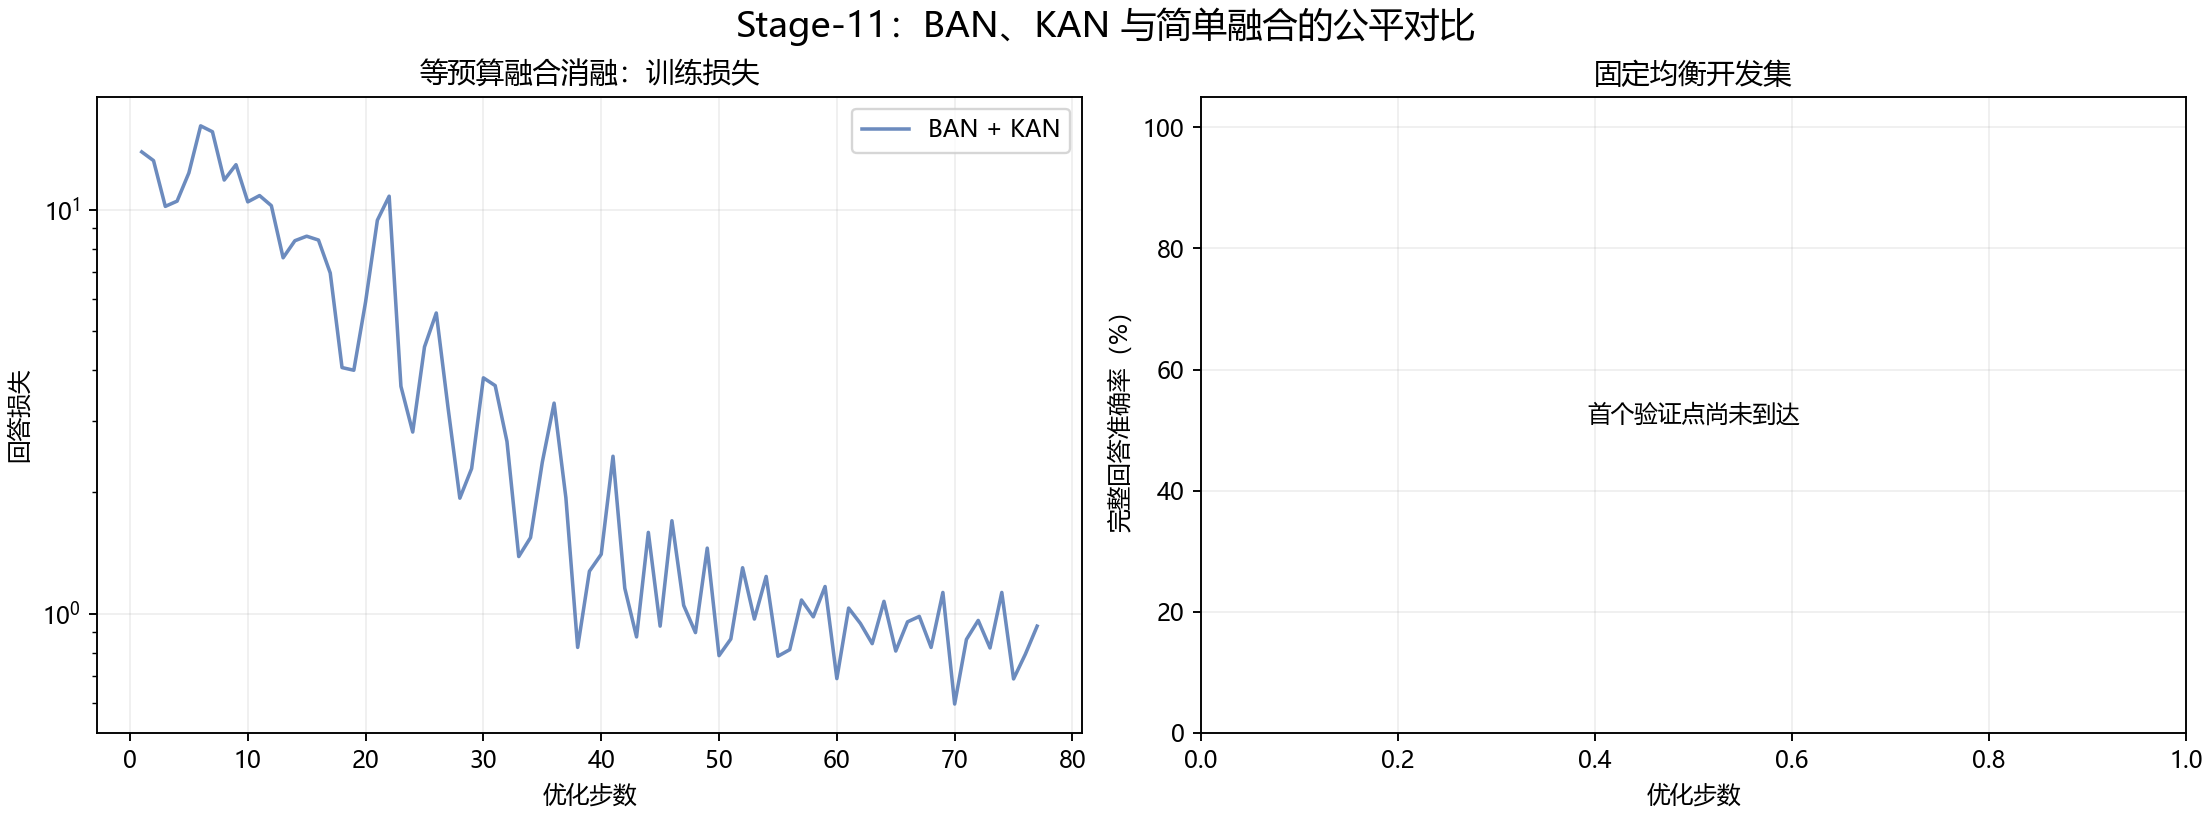
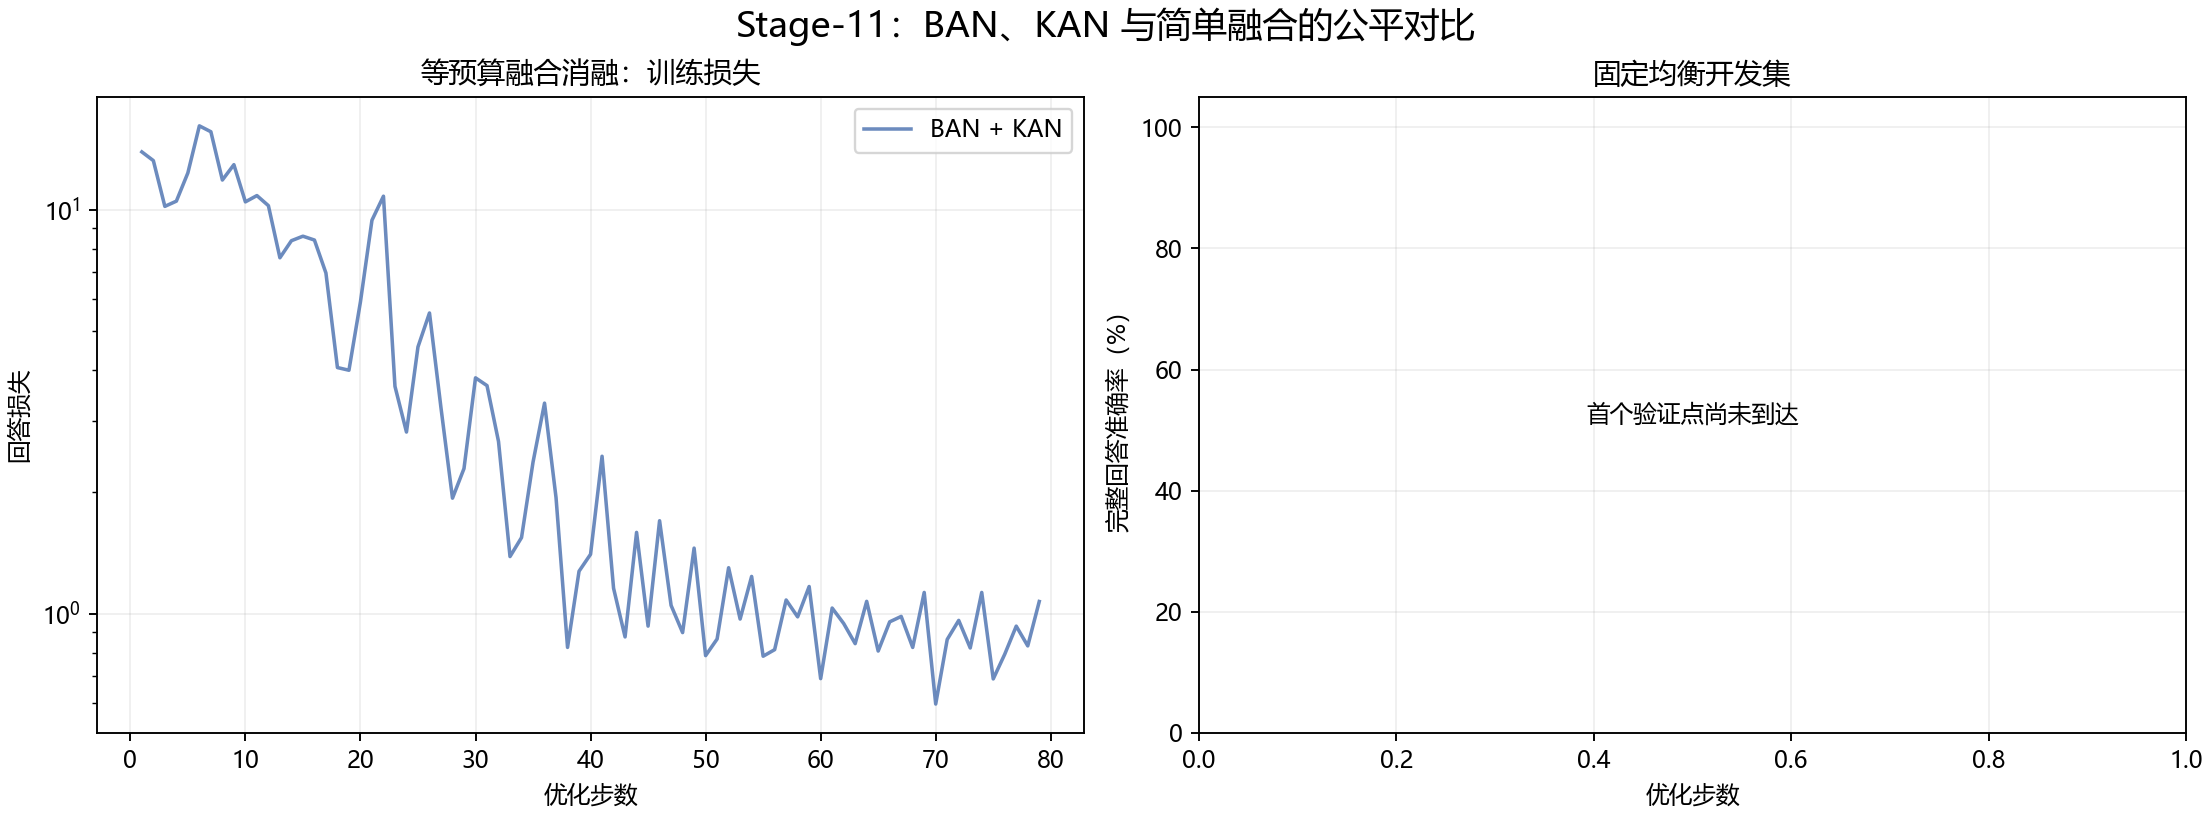
Record verified Stage 11 checkpoint recovery

diff --git a/STAGE10_RESEARCH_LOG.md b/STAGE10_RESEARCH_LOG.md
@@ -111,6 +111,8 @@ GitHub 仓库只提交源码、配置、轻量 JSON/CSV 指标、图表和 Markd
 
 首次BAN+KAN运行到第102步时训练进程与旧接力进程终止，且尚未到第200步验证，也没有可恢复检查点。该运行作为中断诊断归档，不计入正式比较。恢复协议在看到任何正式验证结果之前加入每50步恢复检查点，保存优化器、调度器、随机数状态和可训练权重；优化、验证、选择规则与800步预算均保持不变。`run_stage11_all.ps1`由Windows任务计划托管，防止Codex会话结束带走长训练，并在异常退出后从最近检查点继续三种结构。`snapshot_stage11.ps1`与`report_stage11.py`每四小时生成一次`STAGE11_PROGRESS.md`、JSON快照和进度图；三组全部完成后生成`STAGE11_ABLATION_REPORT.md`。Stage-10最终测试集不会在该消融中读取或用于结构选择。
 
+2026-10-05完成第50步恢复机制的受控测试：检查点含234个可训练张量、AdamW状态、调度器第50轮状态和5,056字节PyTorch RNG状态；终止后从第50步恢复，重新产生的第51–60步损失与原确定性序列一致，累计训练秒数连续。测试同时发现任务计划停止父PowerShell时可能留下Python子进程，因此编排器增加了命令行级单写者检查；在已有训练PID时重复调用只保留一个写入进程。测试期间产生的并发日志已原样备份，正式`history.jsonl`恢复为与第50步检查点严格对应的1–50步，再由唯一进程续写。
+
 ## 10. 统一通信开销口径
 
 `communication_budget.py`现在把三种单位分开核算：离散token源码比特、加入逐包CRC/卷积码后的编码比特，以及真正进入信道的复符号数。公开VQGAN规格的256个、1024码本token对应2,560源比特，即0.0390625 bpp；按当前每包4 token、CRC-16、6终止位、码率1/2卷积码和16-QAM参考链路计算，共7,936编码比特与1,984个复符号。解析结果由测试与`digital_link.py`的无噪声实际统计逐项核对。

diff --git a/STAGE11_PROGRESS.md b/STAGE11_PROGRESS.md
@@ -1,12 +1,12 @@
 # Stage-11 四小时推进快照
 
-- 生成时间：2026-10-04T19:18:56.7948619+08:00
+- 生成时间：2026-10-05T12:37:38.8088752+08:00
 - 协议：`STAGE11_ABLATION_PROTOCOL.json`
 - 数据边界：仅使用训练集与固定开发验证集；Stage-10 最终测试集不参与结构选择。
 
 | 结构 | 状态 | 步数 | 最近训练损失 | 当前最佳验证损失 | 当前最佳准确率 |
 |---|---|---|---|---|---|
-| BAN + KAN | 训练中 | 77/800 | 0.931804 | — | — |
+| BAN + KAN | 训练中 | 79/800 | 1.072356 | — | — |
 | BAN + MLP | 等待自动接力 | 0/800 | — | — | — |
 | Concat + MLP | 等待自动接力 | 0/800 | — | — | — |
 
